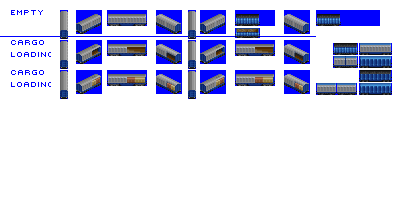
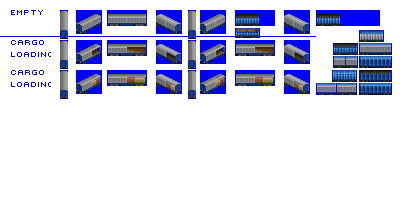
Change: try drawing some fruit cars

Changed region(s): [[0.81, 0.33, 0.9, 0.42], [0.9, 0.15, 0.96, 0.21]]

diff --git a/src/vehicles/fruit_cars.py b/src/vehicles/fruit_cars.py
@@ -1,10 +1,10 @@
 import global_constants
-from train import FruitConsist, FreightCar
+from train import FruitVegConsist, FreightCar
 
 
 def main():
     #--------------- antelope ----------------------------------------------------------------------
-    consist = FruitConsist(roster='antelope',
+    consist = FruitVegConsist(roster='antelope',
                            base_numeric_id=2140,
                            gen=1,
                            subtype='A',
@@ -24,7 +24,7 @@ def main():
                               spritesheet_suffix=1,
                               graphics_processor=consist.graphics_processors[1])
 
-    consist = FruitConsist(roster='antelope',
+    consist = FruitVegConsist(roster='antelope',
                            base_numeric_id=2170,
                            gen=2,
                            subtype='A',
@@ -44,7 +44,7 @@ def main():
                               spritesheet_suffix=1,
                               graphics_processor=consist.graphics_processors[1])
 
-    consist = FruitConsist(roster='antelope',
+    consist = FruitVegConsist(roster='antelope',
                            base_numeric_id=2180,
                            gen=3,
                            subtype='A',

diff --git a/src/train.py b/src/train.py
@@ -665,9 +665,9 @@ class FlatConsist(WagonConsist):
         self.visible_cargo.piece = True
 
 
-class FruitConsist(WagonConsist):
+class FruitVegConsist(WagonConsist):
     """
-    Fruit cargo, with improved decay rate
+    Fruit and vegetables, with improved decay rate
     """
     def __init__(self, **kwargs):
         self.base_id = 'fruit_car'
